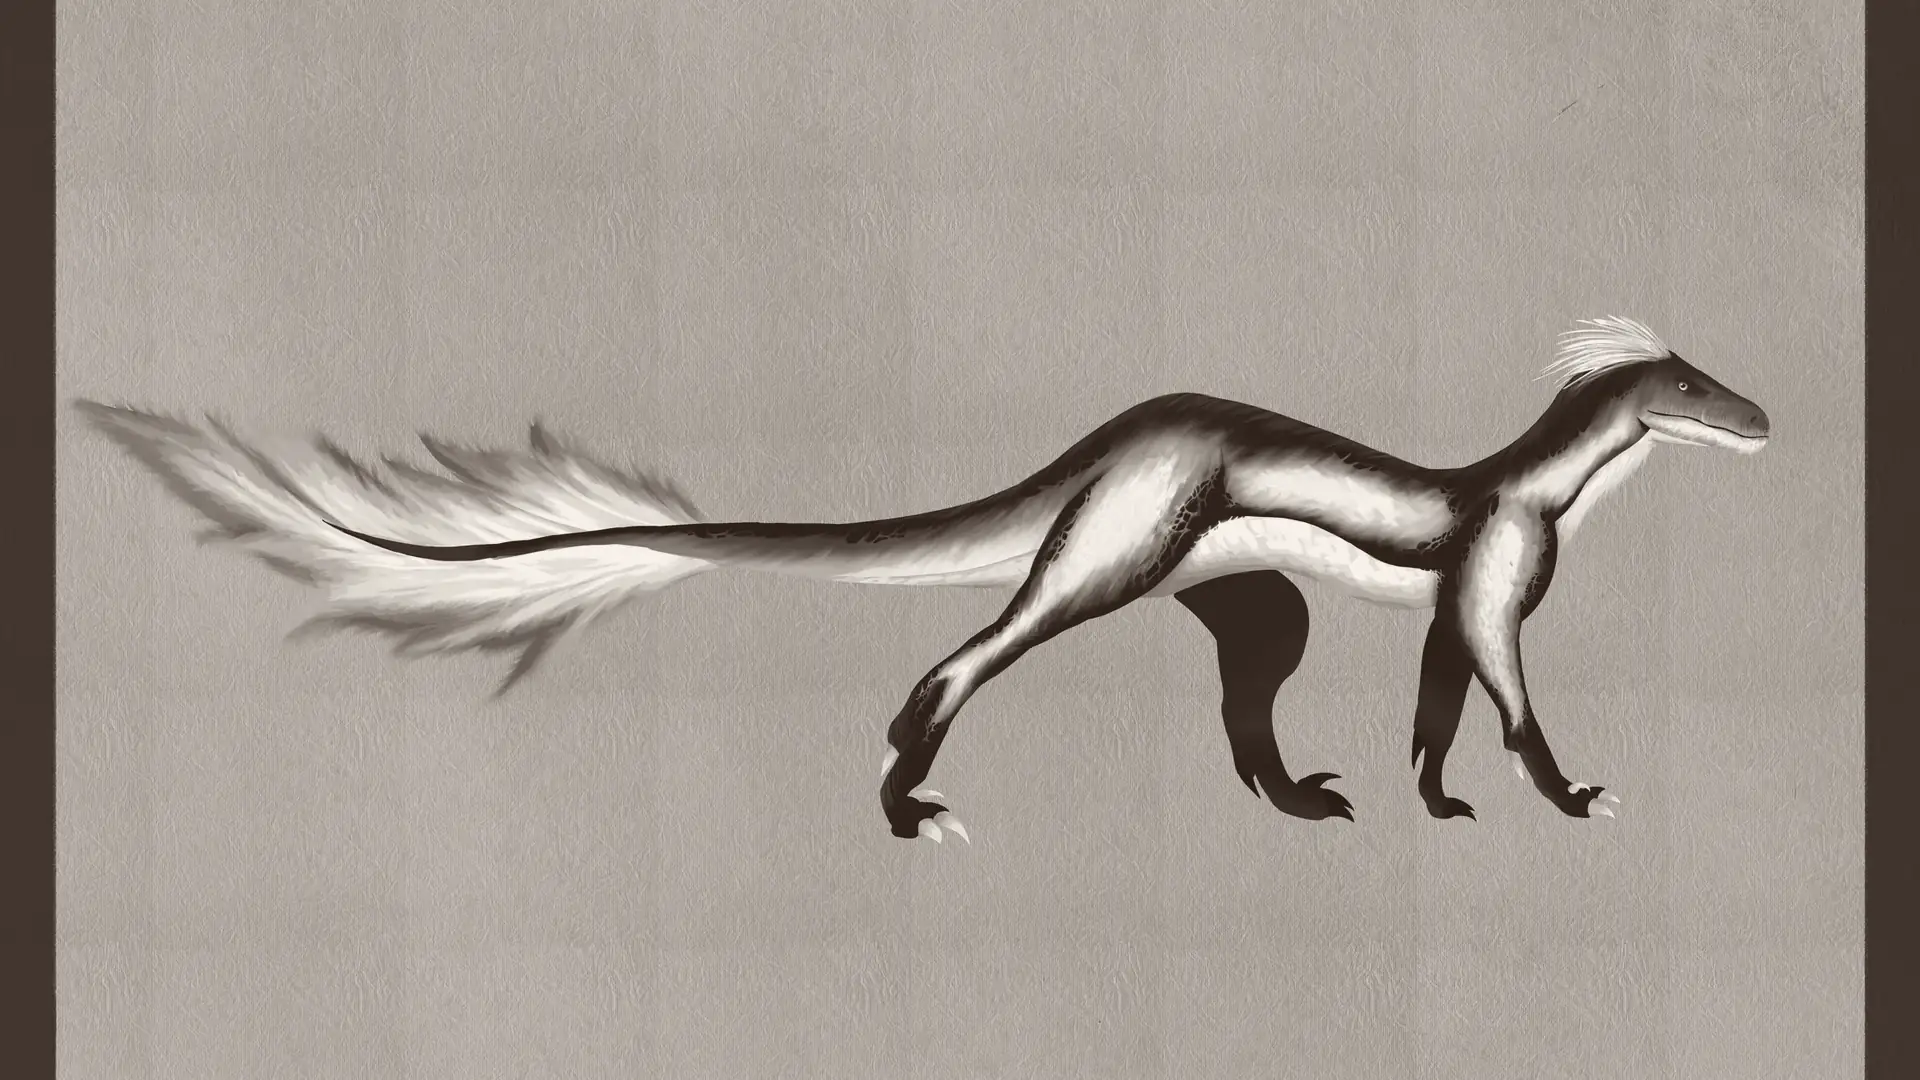
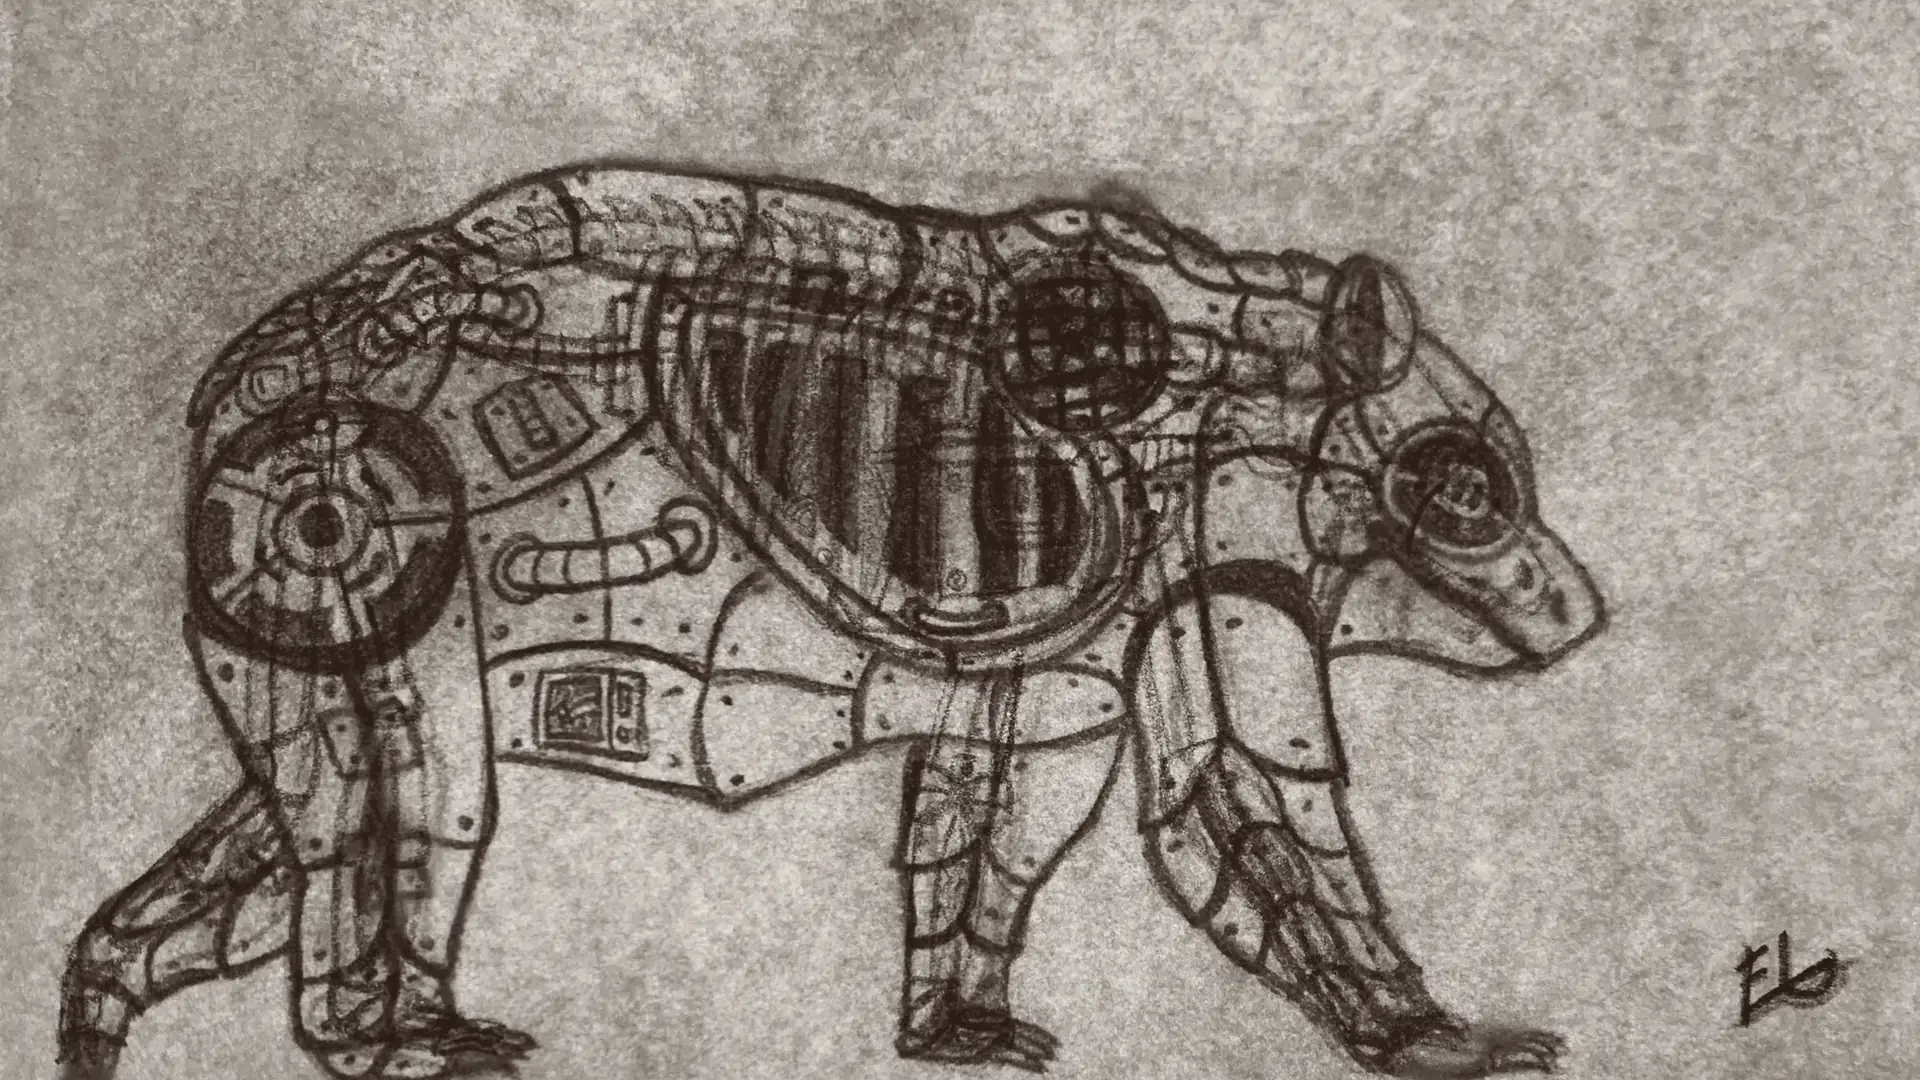
Cambios finales?

diff --git a/assets/style.css b/assets/style.css
@@ -481,3 +481,18 @@ footer .foot-in{max-width:none;margin:0;padding-inline:24px;justify-content:flex
 .bar{
  background:linear-gradient(180deg,rgba(255,255,255,.025),rgba(255,255,255,0) 60%),rgba(0,0,0,.08);
  -webkit-backdrop-filter:blur(5px) saturate(1.3) brightness(.52);backdrop-filter:blur(5px) saturate(1.3) brightness(.52)}
+
+/* projects page v2: darker background images, darker top bar, bottom bar styled like the top bar */
+.proj-bg::after{background:radial-gradient(120% 90% at 50% 40%,rgba(16,10,7,.52),rgba(10,6,4,.86)),rgba(14,9,6,.34)}
+body:has(.proj-bg) .bar{
+ background:linear-gradient(180deg,rgba(255,255,255,.02),rgba(255,255,255,0) 60%),rgba(0,0,0,.34);
+ -webkit-backdrop-filter:blur(6px) saturate(1.3) brightness(.34);backdrop-filter:blur(6px) saturate(1.3) brightness(.34)}
+body:has(.proj-bg) footer{
+ position:sticky;bottom:0;z-index:20;padding:0;height:var(--bar-h);display:flex;align-items:center;border:0;
+ background:linear-gradient(0deg,rgba(255,255,255,.02),rgba(255,255,255,0) 60%),rgba(0,0,0,.34);
+ -webkit-backdrop-filter:blur(6px) saturate(1.3) brightness(.34);backdrop-filter:blur(6px) saturate(1.3) brightness(.34);
+ border-top:1px solid rgba(255,255,255,.12);
+ box-shadow:inset 0 1px 0 rgba(200,225,255,.20),inset 0 9px 12px -9px rgba(170,205,235,.22),inset 0 -1px 0 rgba(255,255,255,.06),0 -1px 0 rgba(0,0,0,.25),0 -10px 28px rgba(0,0,0,.30)}
+body:has(.proj-bg) footer::after{content:"";position:absolute;left:0;right:0;top:0;height:3px;pointer-events:none;background:linear-gradient(90deg,rgba(150,200,255,0),rgba(150,200,255,.30) 12%,rgba(255,190,170,.14) 30%,rgba(190,235,255,.32) 52%,rgba(255,200,230,.14) 72%,rgba(160,210,255,.28) 90%,rgba(150,200,255,0));filter:blur(.8px)}
+body:has(.proj-bg) footer .foot-in{width:100%}
+body:has(.proj-bg) footer,body:has(.proj-bg) footer .foot-in span{color:rgba(240,232,222,.7)}

diff --git a/index.html b/index.html
@@ -5,7 +5,7 @@
 <meta name="viewport" content="width=device-width,initial-scale=1">
 <title>Emilio Velázquez Puente · Portfolio</title>
 <meta name="description" content="Portfolio of Emilio Velázquez Puente: artist and animator student.">
-<link rel="stylesheet" href="assets/style.css?v=20261012c">
+<link rel="stylesheet" href="assets/style.css?v=20261012d">
 </head>
 <body>
 <header class="bar"><div class="bar-in">

diff --git a/mecha-paws.html b/mecha-paws.html
@@ -5,7 +5,7 @@
 <meta name="viewport" content="width=device-width,initial-scale=1">
 <title>Mecha-Paws · E V P</title>
 <meta name="description" content="Portfolio of Emilio Velázquez Puente: artist and animator student.">
-<link rel="stylesheet" href="assets/style.css?v=20261012c">
+<link rel="stylesheet" href="assets/style.css?v=20261012d">
 </head>
 <body>
 <header class="bar"><div class="bar-in">

diff --git a/short-film.html b/short-film.html
@@ -5,7 +5,7 @@
 <meta name="viewport" content="width=device-width,initial-scale=1">
 <title>Short film · E V P</title>
 <meta name="description" content="Portfolio of Emilio Velázquez Puente: artist and animator student.">
-<link rel="stylesheet" href="assets/style.css?v=20261012c">
+<link rel="stylesheet" href="assets/style.css?v=20261012d">
 </head>
 <body>
 <header class="bar"><div class="bar-in">

diff --git a/about.html b/about.html
@@ -5,7 +5,7 @@
 <meta name="viewport" content="width=device-width,initial-scale=1">
 <title>About me · E V P</title>
 <meta name="description" content="Portfolio of Emilio Velázquez Puente: artist and animator student.">
-<link rel="stylesheet" href="assets/style.css?v=20261012c">
+<link rel="stylesheet" href="assets/style.css?v=20261012d">
 </head>
 <body>
 <header class="bar"><div class="bar-in">

diff --git a/projects.html b/projects.html
@@ -5,7 +5,7 @@
 <meta name="viewport" content="width=device-width,initial-scale=1">
 <title>Projects · E V P</title>
 <meta name="description" content="Portfolio of Emilio Velázquez Puente: artist and animator student.">
-<link rel="stylesheet" href="assets/style.css?v=20261012c">
+<link rel="stylesheet" href="assets/style.css?v=20261012d">
 </head>
 <body>
 <header class="bar"><div class="bar-in">

diff --git a/contact.html b/contact.html
@@ -5,7 +5,7 @@
 <meta name="viewport" content="width=device-width,initial-scale=1">
 <title>Contact · E V P</title>
 <meta name="description" content="Portfolio of Emilio Velázquez Puente: artist and animator student.">
-<link rel="stylesheet" href="assets/style.css?v=20261012c">
+<link rel="stylesheet" href="assets/style.css?v=20261012d">
 </head>
 <body>
 <header class="bar"><div class="bar-in">

diff --git a/velvet.html b/velvet.html
@@ -5,7 +5,7 @@
 <meta name="viewport" content="width=device-width,initial-scale=1">
 <title>Velvet · E V P</title>
 <meta name="description" content="Portfolio of Emilio Velázquez Puente: artist and animator student.">
-<link rel="stylesheet" href="assets/style.css?v=20261012c">
+<link rel="stylesheet" href="assets/style.css?v=20261012d">
 </head>
 <body>
 <header class="bar"><div class="bar-in">

diff --git a/noctu.html b/noctu.html
@@ -5,7 +5,7 @@
 <meta name="viewport" content="width=device-width,initial-scale=1">
 <title>Noctu · E V P</title>
 <meta name="description" content="Portfolio of Emilio Velázquez Puente: artist and animator student.">
-<link rel="stylesheet" href="assets/style.css?v=20261012c">
+<link rel="stylesheet" href="assets/style.css?v=20261012d">
 </head>
 <body>
 <header class="bar"><div class="bar-in">

diff --git a/art.html b/art.html
@@ -5,7 +5,7 @@
 <meta name="viewport" content="width=device-width,initial-scale=1">
 <title>Art · E V P</title>
 <meta name="description" content="Portfolio of Emilio Velázquez Puente: artist and animator student.">
-<link rel="stylesheet" href="assets/style.css?v=20261012c">
+<link rel="stylesheet" href="assets/style.css?v=20261012d">
 </head>
 <body>
 <header class="bar"><div class="bar-in">
